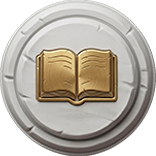
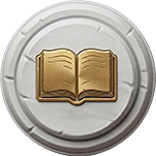
feat(ui): match the score plate to the exit button
The score sits in a plate the same size as exit, with gold text that shrinks slightly at three digits.

diff --git a/phaser/components/UIManager.ts b/phaser/components/UIManager.ts
@@ -11,8 +11,9 @@ const assetConf = CandyCrushAssetConf; //* Generalizzazione
 
 const LOGO_BAND_MARGIN = 40; // aria sopra e sotto il logo, al posto della vecchia fascia
 
-const SCORE_BG_WIDTH = 300; // larghezza del papiro dello score, prima della scala del container
 const SCORE_TEXT_SCALE = 1;
+const SCORE_FONT_RATIO = 0.42; // il numero riempie il papiro, che ha la stessa altezza di btnExit
+const SCORE_THREE_DIGIT_SCALE = 0.84; // a 3 cifre il numero si stringe un filo per restare nel papiro
 const SCORE_PULSE_SCALE = 1.25; // ingrandimento momentaneo a ogni punto
 
 export class UIManager {
@@ -22,6 +23,7 @@ export class UIManager {
   public score = 0;
   public maxScore = 10; //* temporaneo: 10 per le prove, poi torna a 100
   private displayedScore: number = 0;
+  private scoreFontSize = 48;
   private scoreText!: Phaser.GameObjects.Text;
   originalScale: number = 1;
   ofssetY: number = 0;
@@ -92,21 +94,31 @@ export class UIManager {
   }
 
   #createContainerScore() {
-    const containerScale = this.gameScene.setDynamicValueBasedOnScale(0.3, 0.55);
+    const inset = this.gameScene.setDynamicValueBasedOnScale(HEADER_INSET_MIN, HEADER_INSET_MAX);
+    const exitScale = this.gameScene.setDynamicValueBasedOnScale(0.35, 1);
+    const exitImage = this.scene.textures.get(assetConf.image.btnExitGame).getSourceImage() as {
+      width: number;
+      height: number;
+    };
+    const exitSize = exitImage.height * exitScale;
 
     this.scoreContainer = this.scene.add.container(0, 0);
-    this.scoreContainer.setScrollFactor(0).setDepth(10).setScale(containerScale);
+    this.scoreContainer.setScrollFactor(0).setDepth(10);
 
     const scoreBg = this.scene.add.image(0, 0, assetConf.image.containerScore).setOrigin(0.5);
 
-    scoreBg.setScale(SCORE_BG_WIDTH / scoreBg.width);
+    //* Stessa altezza di btnExit: il papiro non deve essere più grande
+    scoreBg.setScale(exitSize / scoreBg.height);
 
-    //* Larghezza fissa: il papiro non deve respirare quando il punteggio cresce
+    this.scoreFontSize = Math.round(exitSize * SCORE_FONT_RATIO);
+
     this.scoreText = this.scene.add
       .text(0, 0, `${this.score}`, {
         fontFamily: APP_FONT,
-        fontSize: "48px",
-        color: "#4b260f",
+        fontSize: `${this.scoreFontSize}px`,
+        color: "#ffd76a",
+        stroke: "#2a160ccc",
+        strokeThickness: Math.max(2, Math.round(this.scoreFontSize * 0.08)),
       })
       .setOrigin(0.5)
       .setScale(SCORE_TEXT_SCALE);
@@ -114,13 +126,8 @@ export class UIManager {
     this.scoreContainer.add([scoreBg, this.scoreText]);
 
     //* Stesso vuoto dal bordo del bottone esci, sul lato opposto
-    const inset = this.gameScene.setDynamicValueBasedOnScale(HEADER_INSET_MIN, HEADER_INSET_MAX);
-    const exitScale = this.gameScene.setDynamicValueBasedOnScale(0.35, 1);
-    const exitImage = this.scene.textures.get(assetConf.image.btnExitGame).getSourceImage() as {
-      width: number;
-    };
     const exitHalf = (exitImage.width * exitScale) / 2;
-    const scoreHalf = (scoreBg.displayWidth * containerScale) / 2;
+    const scoreHalf = scoreBg.displayWidth / 2;
 
     this.scoreContainer.setPosition(inset - exitHalf + scoreHalf, this.headerCenterY);
   }
@@ -150,6 +157,16 @@ export class UIManager {
     this.iconHelp = iconHelp;
     this.iconHelp.setPosition(iconHelp.x, iconHelp.y);
     this.helpUsed = this.differenceTryLimit;
+  }
+
+  #fitScoreText(value: number): void {
+    const size =
+      `${value}`.length >= 3
+        ? Math.round(this.scoreFontSize * SCORE_THREE_DIGIT_SCALE)
+        : this.scoreFontSize;
+
+    this.scoreText.setFontSize(size);
+    this.scoreText.setStroke("#2a160ccc", Math.max(2, Math.round(size * 0.08)));
   }
 
   //* Scopo: Aggiunge punti al punteggio totale senza superare maxScore
@@ -184,6 +201,7 @@ export class UIManager {
         }
 
         this.scoreText.setText(`${this.displayedScore}`);
+        this.#fitScoreText(this.displayedScore);
 
         this.scoreText.setScale(SCORE_TEXT_SCALE);
 

diff --git a/src/components/HomeScreen.tsx b/src/components/HomeScreen.tsx
@@ -243,18 +243,26 @@ function HomeImageButton({
         onClick?.();
       }}
     >
-      <Image
-        alt={alt}
-        className={`h-auto w-full transition-[transform,filter] duration-100 ease-out ${
+      <span
+        className={`relative block w-full transition-transform duration-100 ease-out ${
           isPressed
-            ? "translate-y-1 scale-[0.93] brightness-90 drop-shadow-none"
-            : "drop-shadow-lg group-active:translate-y-1 group-active:scale-[0.93] group-active:brightness-90 group-active:drop-shadow-none"
+            ? "translate-y-1 scale-[0.93]"
+            : "group-active:translate-y-1 group-active:scale-[0.93]"
         }`}
-        height={height}
-        src={src}
-        width={width}
-      />
-      {children}
+      >
+        <Image
+          alt={alt}
+          className={`h-auto w-full transition-[filter] duration-100 ease-out ${
+            isPressed
+              ? "brightness-90 drop-shadow-none"
+              : "drop-shadow-lg group-active:brightness-90 group-active:drop-shadow-none"
+          }`}
+          height={height}
+          src={src}
+          width={width}
+        />
+        {children}
+      </span>
     </button>
   );
 }
@@ -372,8 +380,8 @@ export function HomeScreen() {
           }}
         >
           <span
-            className={`pointer-events-none absolute inset-0 flex items-center justify-center font-display font-bold tracking-wide text-white transition-transform duration-100 ${
-              isStartPressed ? "translate-y-1 scale-[0.93]" : "group-active:translate-y-1 group-active:scale-[0.93]"
+            className={`pointer-events-none absolute inset-0 flex items-center justify-center font-display font-bold tracking-wide transition-colors duration-100 ${
+              isStartPressed ? "text-[#e0e0e0]" : "text-white group-active:text-[#e0e0e0]"
             }`}
             style={{
               fontSize: "clamp(1.4rem, 6.5vw, 2.1rem)",
